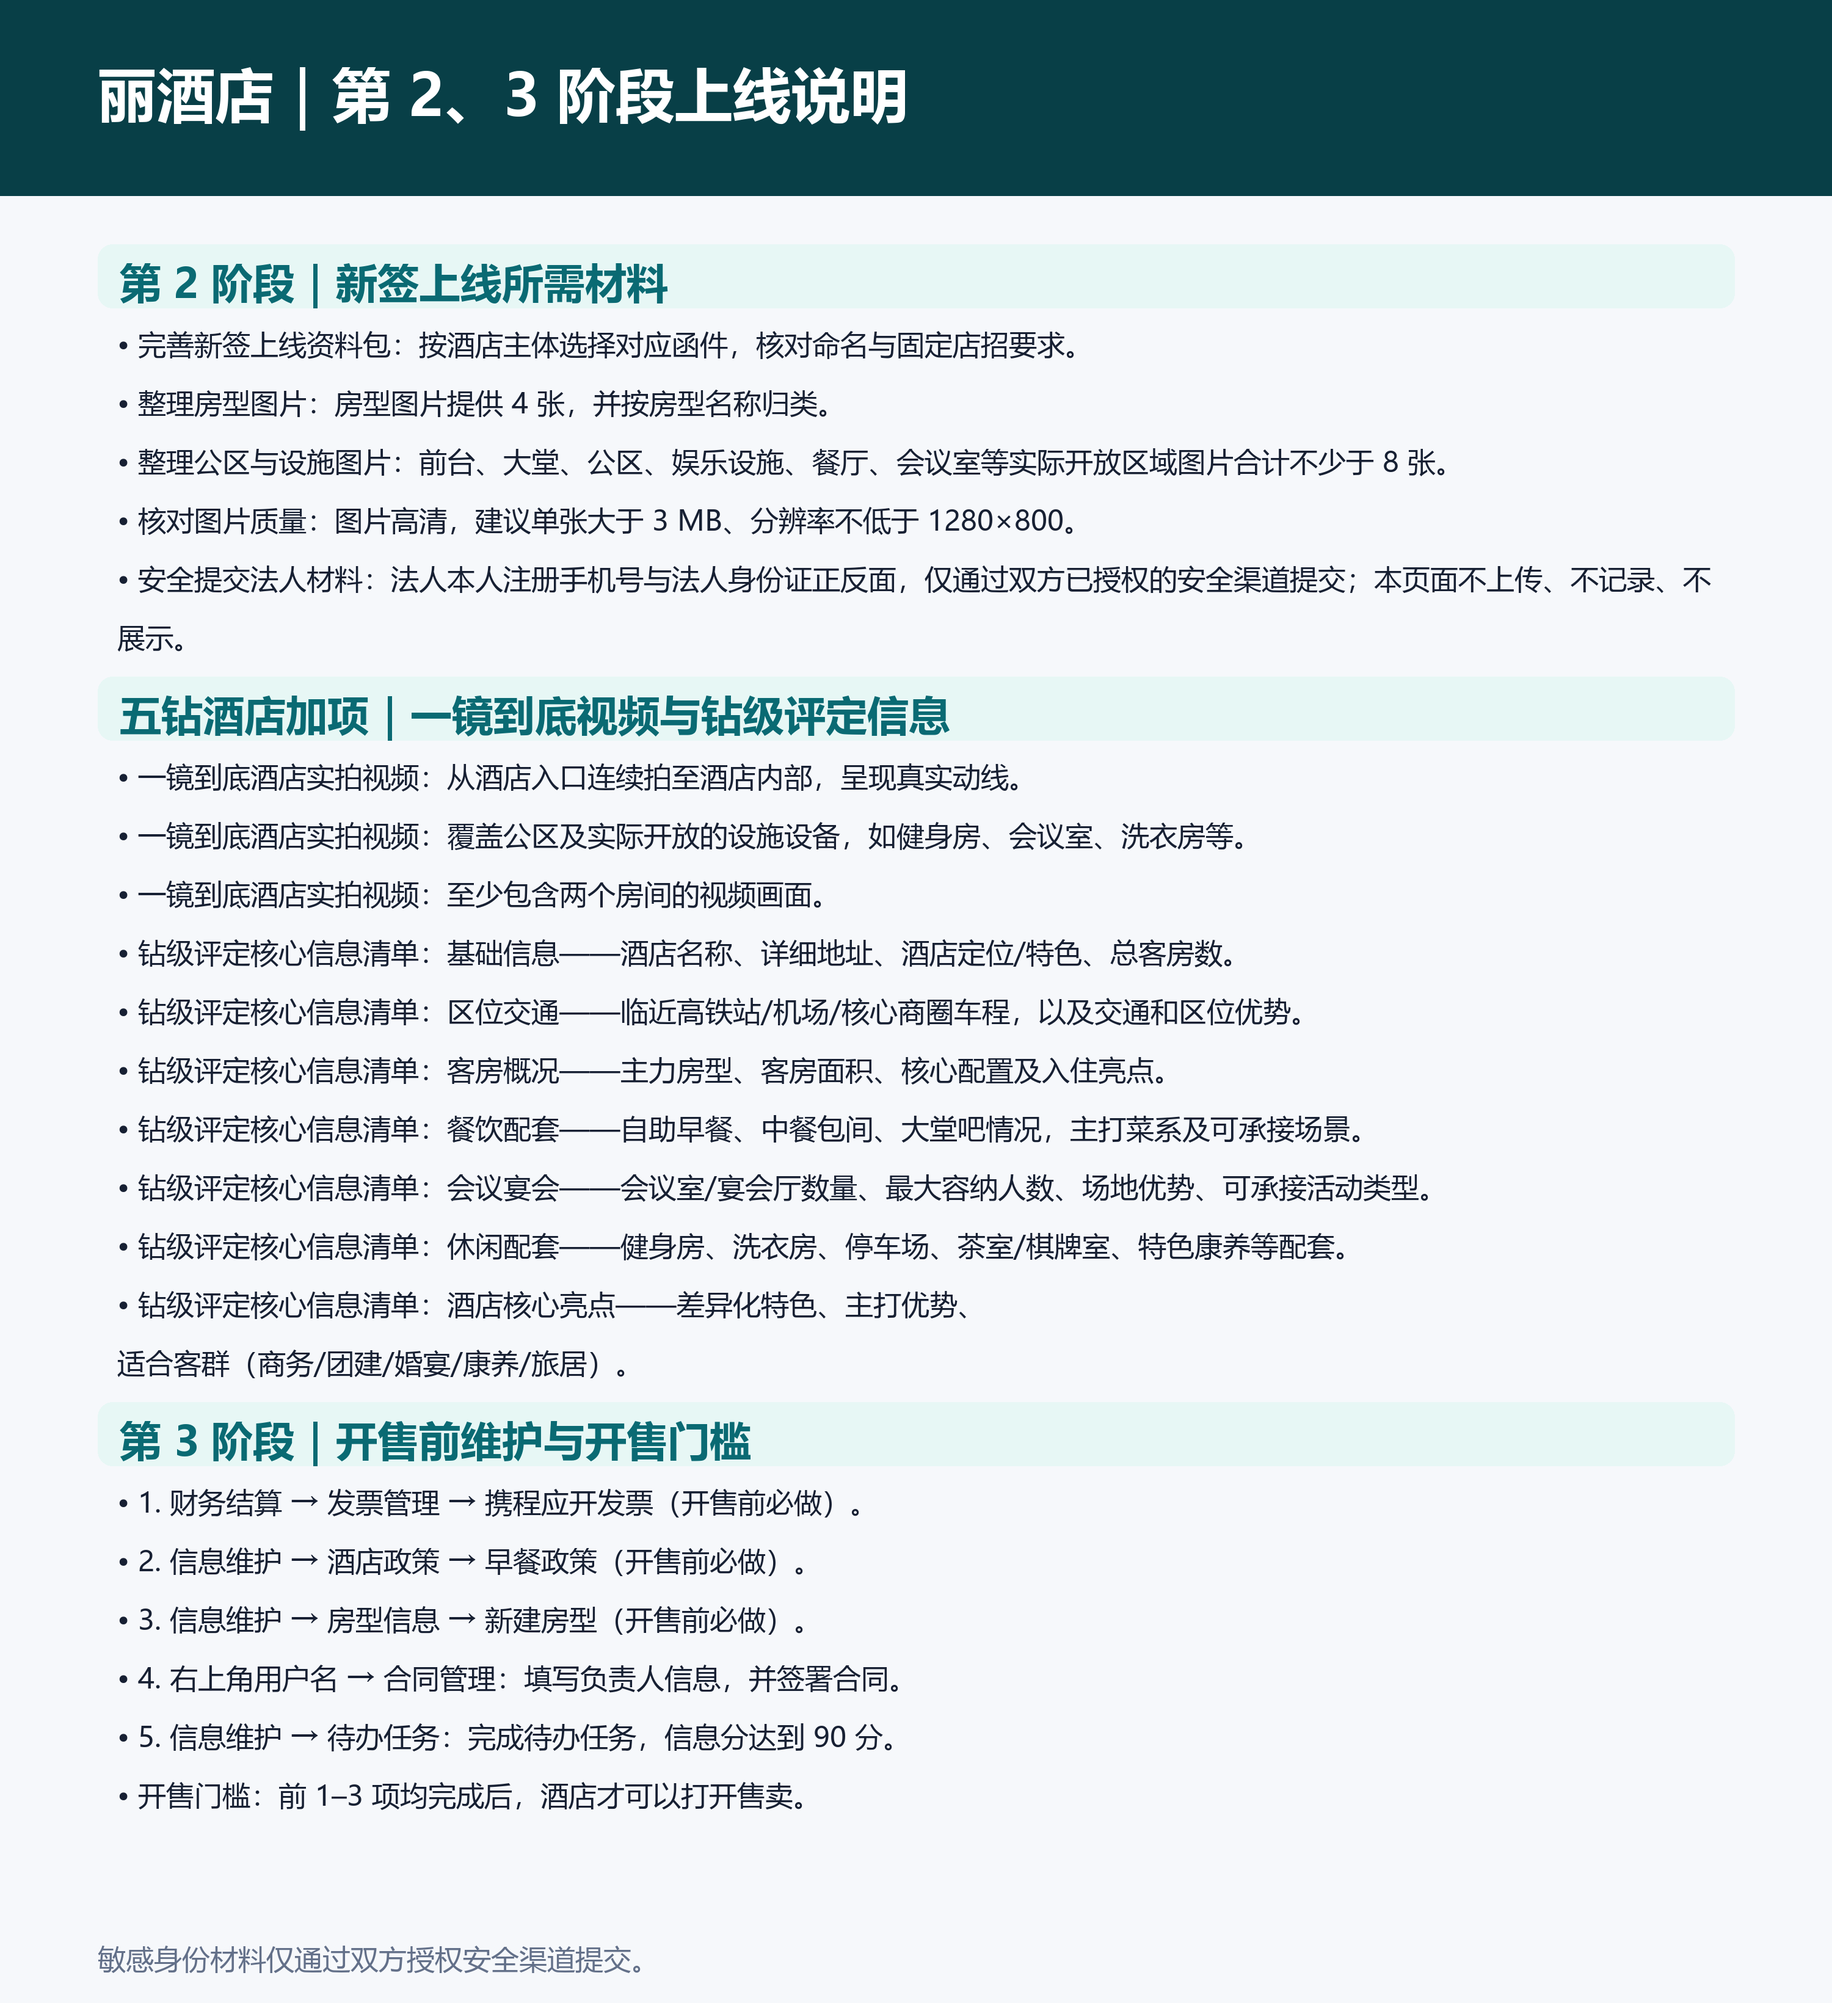
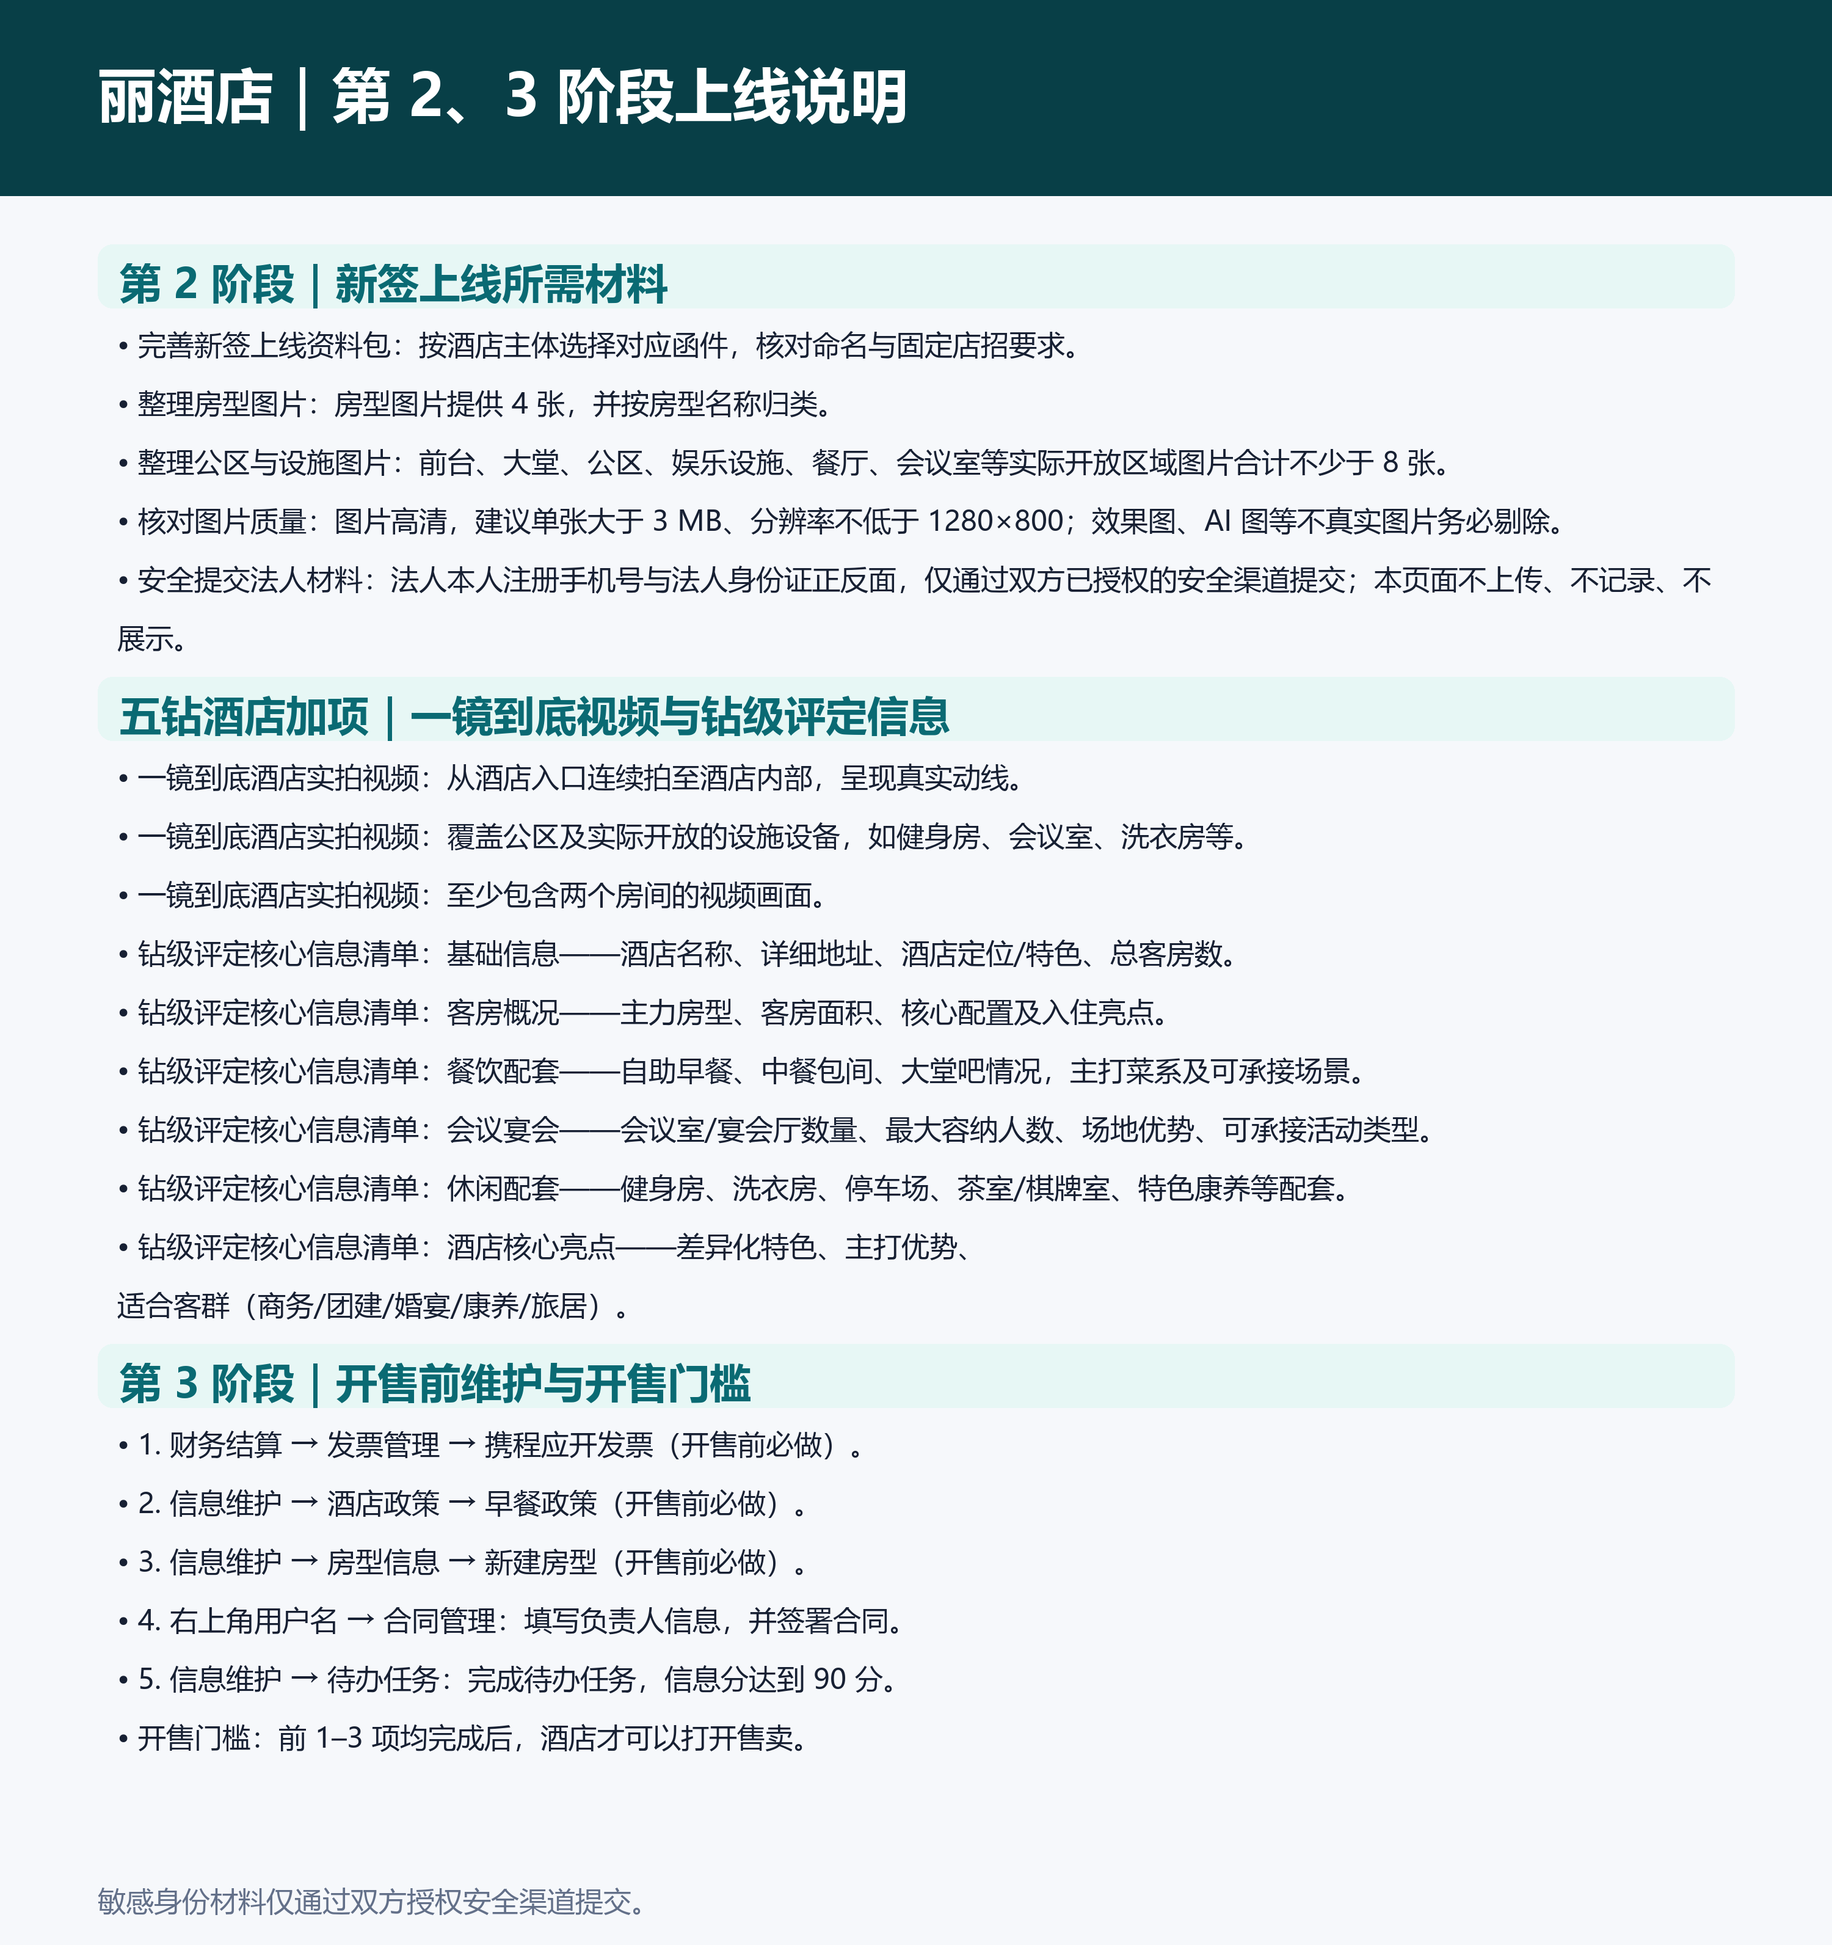
feat: refine image and rating guidance

diff --git a/docs/li-hotel/index.html b/docs/li-hotel/index.html
@@ -2,5 +2,5 @@
 :root{--ink:#172033;--muted:#637089;--line:#dfe5ee;--brand:#0a6a73;--paper:#f6f8fb;--accent:#b96b17}*{box-sizing:border-box}body{margin:0;color:var(--ink);background:var(--paper);font-family:"Microsoft YaHei","PingFang SC",Arial,sans-serif;line-height:1.65}.hero{color:#fff;background:linear-gradient(125deg,#073e46,#0b6971 65%,#128079);padding:54px 24px 64px}.wrap{max-width:960px;margin:auto}.eyebrow{margin:0;color:#bdebe6;font-size:.82rem;letter-spacing:.08em;font-weight:700}h1{font-size:clamp(2rem,5vw,3.2rem);margin:8px 0;line-height:1.18}.subtitle{margin:0;color:#e0f0ef}.facts{display:grid;grid-template-columns:repeat(4,1fr);gap:1px;margin-top:30px;background:#62a6a2;border:1px solid #62a6a2}.fact{padding:14px;background:rgba(7,62,70,.72)}.fact small{display:block;color:#c8e6e3}.fact strong{display:block;margin-top:2px}main{margin-top:-28px;padding:0 24px 56px}.card{background:#fff;box-shadow:0 6px 24px rgba(35,55,84,.08);border:1px solid #edf0f5;border-radius:14px;padding:26px;margin:18px 0}.accent{border-left:5px solid var(--accent)}h2{margin:0 0 12px;font-size:1.35rem}h3{margin:22px 0 8px;font-size:1rem}p{margin:8px 0}li{margin:7px 0}.button{display:inline-block;padding:11px 16px;border-radius:8px;text-decoration:none;font-weight:700;margin:8px 8px 8px 0}.primary{color:#fff;background:var(--brand)}.secondary{color:var(--brand);background:#e7f7f5}.note{color:var(--muted);font-size:.9rem}.step{padding:16px 0;border-top:1px solid var(--line)}.step:first-of-type{border-top:0}.badge{display:inline-block;padding:2px 7px;color:#8a4e0c;background:#fff1dd;border-radius:999px;font-size:.75rem;font-weight:700}.gate{padding:14px;color:#683e08;background:#fff6e8;border-radius:9px;font-weight:700}footer{color:var(--muted);font-size:.85rem;padding:10px 0}@media(max-width:650px){.hero{padding:38px 18px 50px}main{padding:0 14px 38px}.card{padding:20px}.facts{grid-template-columns:repeat(2,1fr)}}</style></head><body>
 <header class="hero"><div class="wrap"><p class="eyebrow">HOTEL ONBOARDING · 新签上线</p><h1>丽酒店</h1><p class="subtitle">新签上线资料准备、开售前基础维护与当前陪跑范围说明</p><div class="facts"><div class="fact"><small>酒店星级 / 钻级</small><strong>五钻</strong></div><div class="fact"><small>房间量</small><strong>108 间</strong></div><div class="fact"><small>酒店地址</small><strong>纱帽路一号</strong></div><div class="fact"><small>页面生成日期</small><strong>2026-10-12</strong></div></div></div></header>
 <main><div class="wrap"><section class="card"><p class="eyebrow" style="color:#0a6a73">资料准备</p><h2>1. 下载并完成新签上线资料包</h2><p>请下载资料包并补充填写。资料包包含摘录表、账户/合作承诺函、营业执照地址不一致说明、命名及店招规范和合同模板等材料。</p><a class="button primary" href="新签上线资料包.7z" download>下载新签上线资料包（.7z）</a><a class="button secondary" href="stages-2-3.png" download>酒店可见视图下载</a><p class="note">资料包仅供本酒店新签使用。请勿在页面填写、上传或展示身份证照片、法人手机号、合同内容及其他个人敏感信息。</p></section>
-<section class="card"><p class="eyebrow" style="color:#0a6a73">上线准备清单</p><h2>2. 新签上线所需材料</h2><div class="step"><strong>完善新签上线资料包</strong><p>按酒店主体选择对应函件，核对命名与固定店招要求。</p></div><div class="step"><strong>整理房型图片</strong><p>房型图片提供 4 张，并按房型名称归类。</p></div><div class="step"><strong>整理公区与设施图片</strong><p>前台、大堂、公区、娱乐设施、餐厅、会议室等实际开放区域图片合计不少于 8 张。</p></div><div class="step"><strong>核对图片质量</strong><p>图片高清；建议单张大于 3 MB、分辨率不低于 1280×800。</p></div><div class="step"><strong>安全提交法人材料</strong><p>法人本人注册手机号与法人身份证正反面，仅通过双方已授权的安全渠道提交；本页面不上传、不记录、不展示。</p></div></section><section class="card accent"><p class="eyebrow">五钻酒店加项</p><h2>一镜到底视频与钻级评定信息</h2><h3>一镜到底酒店实拍视频</h3><ul><li>从酒店入口连续拍至酒店内部，呈现真实动线。</li><li>覆盖公区及实际开放的设施设备，如健身房、会议室、洗衣房等。</li><li>至少包含两个房间的视频画面。</li></ul><h3>钻级评定核心信息清单</h3><ol><li>基础信息：名称、地址、定位/特色、客房数。</li><li>区位交通：高铁站/机场/商圈车程及优势。</li><li>客房概况：主力房型、面积、配置及亮点。</li><li>餐饮配套：早餐、包间、大堂吧、菜系及场景。</li><li>会议宴会：数量、容量、场地优势及活动类型。</li><li>休闲配套：健身房、洗衣房、停车场、茶室/棋牌室、康养等。</li><li>酒店核心亮点：差异化、主打优势及适合客群。</li></ol></section>
+<section class="card"><p class="eyebrow" style="color:#0a6a73">上线准备清单</p><h2>2. 新签上线所需材料</h2><div class="step"><strong>完善新签上线资料包</strong><p>按酒店主体选择对应函件，核对命名与固定店招要求。</p></div><div class="step"><strong>整理房型图片</strong><p>房型图片提供 4 张，并按房型名称归类。</p></div><div class="step"><strong>整理公区与设施图片</strong><p>前台、大堂、公区、娱乐设施、餐厅、会议室等实际开放区域图片合计不少于 8 张。</p></div><div class="step"><strong>核对图片质量</strong><p>图片高清；建议单张大于 3 MB、分辨率不低于 1280×800；效果图、AI 图等不真实图片务必剔除。</p></div><div class="step"><strong>安全提交法人材料</strong><p>法人本人注册手机号与法人身份证正反面，仅通过双方已授权的安全渠道提交；本页面不上传、不记录、不展示。</p></div></section><section class="card accent"><p class="eyebrow">五钻酒店加项</p><h2>一镜到底视频与钻级评定信息</h2><h3>一镜到底酒店实拍视频</h3><ul><li>从酒店入口连续拍至酒店内部，呈现真实动线。</li><li>覆盖公区及实际开放的设施设备，如健身房、会议室、洗衣房等。</li><li>至少包含两个房间的视频画面。</li></ul><h3>钻级评定核心信息清单</h3><ol><li>基础信息：名称、地址、定位/特色、客房数。</li><li>客房概况：主力房型、面积、配置及亮点。</li><li>餐饮配套：早餐、包间、大堂吧、菜系及场景。</li><li>会议宴会：数量、容量、场地优势及活动类型。</li><li>休闲配套：健身房、洗衣房、停车场、茶室/棋牌室、康养等。</li><li>酒店核心亮点：差异化、主打优势及适合客群。</li></ol></section>
 <section class="card"><p class="eyebrow" style="color:#0a6a73">开售前维护</p><h2>3. 上线后基础流程维护</h2><div class="step"><strong>1. 财务结算 → 发票管理 → 携程应开发票</strong><span class="badge">开售前必做</span></div><div class="step"><strong>2. 信息维护 → 酒店政策 → 早餐政策</strong><span class="badge">开售前必做</span></div><div class="step"><strong>3. 信息维护 → 房型信息 → 新建房型</strong><span class="badge">开售前必做</span></div><div class="step"><strong>4. 右上角用户名 → 合同管理</strong><p>填写负责人信息，并签署合同。</p></div><div class="step"><strong>5. 信息维护 → 待办任务</strong><p>完成待办任务，信息分达到 90 分。</p></div><p class="gate">开售门槛：前 1–3 项均完成后，酒店才可以打开售卖。</p></section><section class="card"><p class="eyebrow" style="color:#0a6a73">陪跑运营</p><h2>4. 上线后陪跑运营维护方案</h2><p>当前版本仅覆盖新签上线与基础维护。陪跑运营的具体节奏、经营目标、复盘频次和双方职责，待业务规则补充确认后再纳入本页；本页不构成未确认的服务承诺。</p></section><section class="card"><h2>页面说明</h2><p>本页面为无需登录即可打开的公开资料页。 所有展示信息应为可披露的酒店业务信息；敏感身份材料请通过双方授权的安全渠道提交。</p></section><footer>此页面仅用于酒店新签上线准备与基础维护提示。</footer></div></main></body></html>
